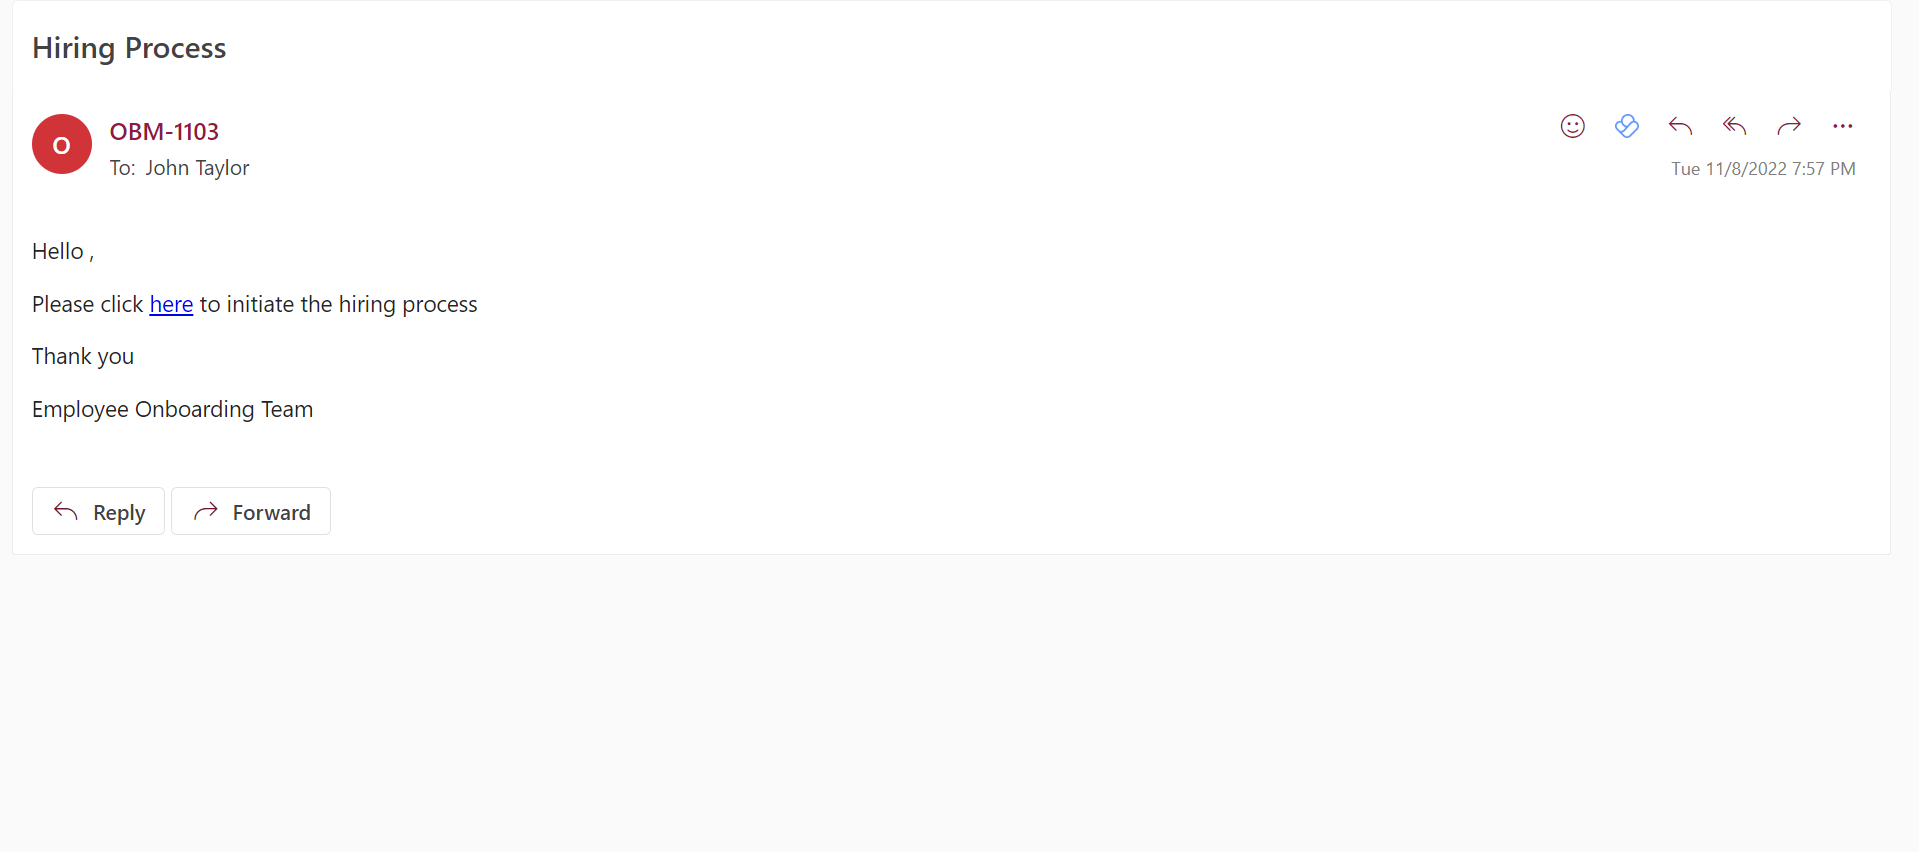
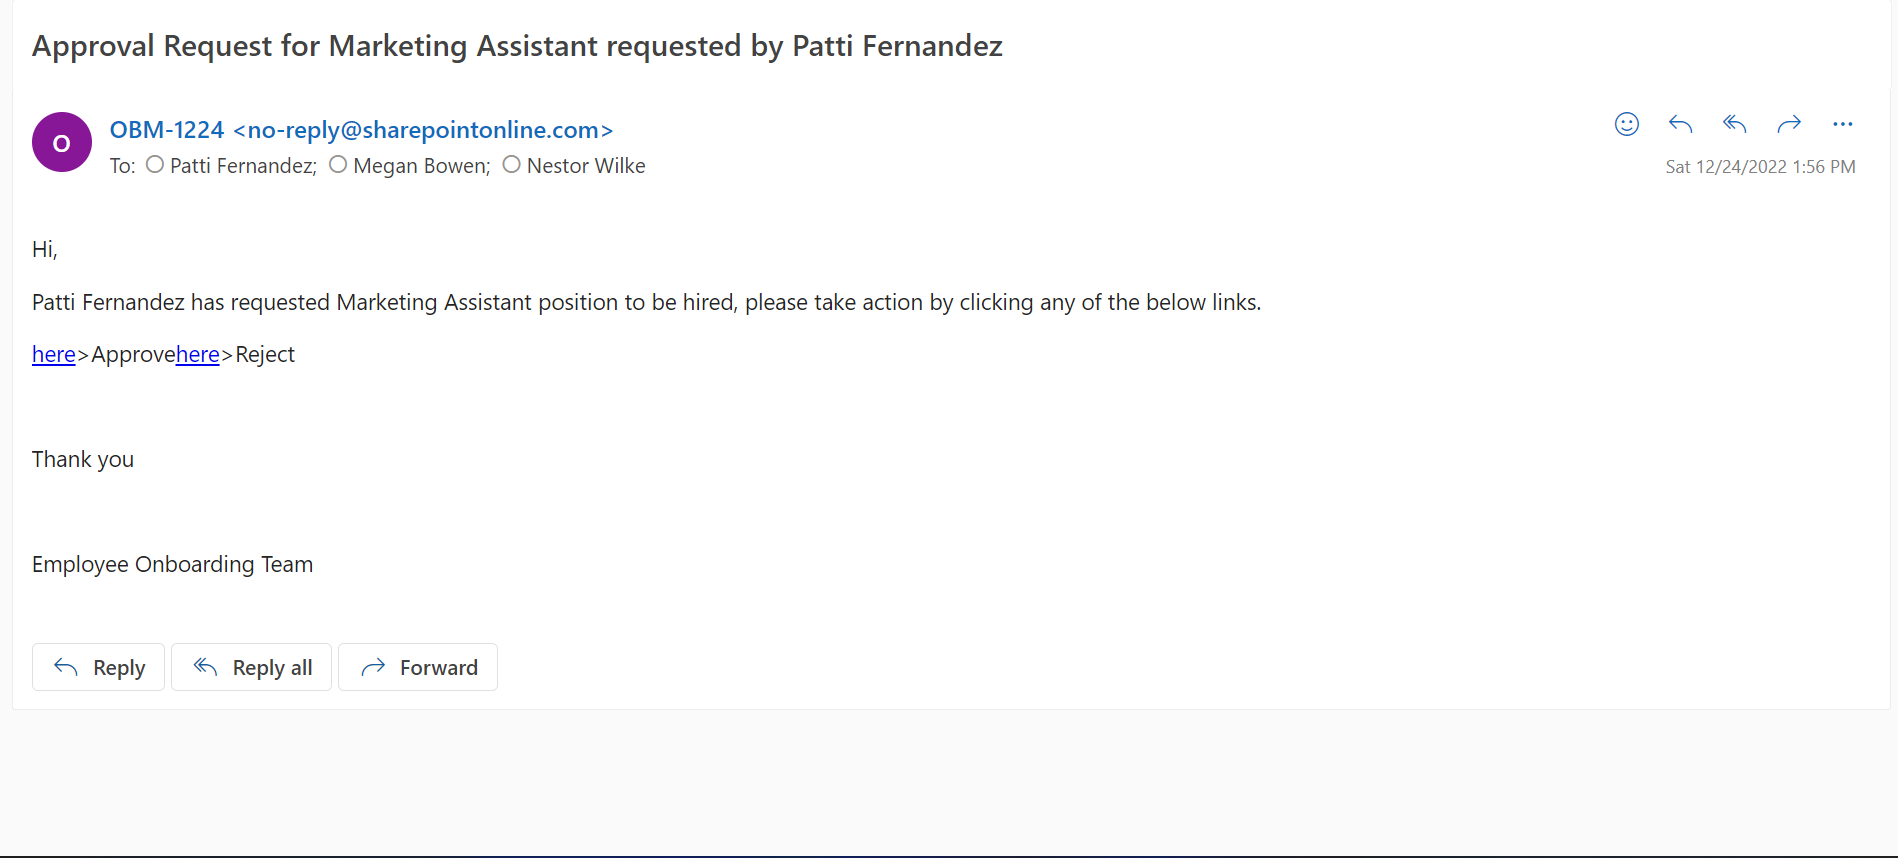
update

diff --git a/sharepoint-employee-onboarding/modern/admin/process/index.html b/sharepoint-employee-onboarding/modern/admin/process/index.html
@@ -350,21 +350,51 @@
                 Essentially, it’s a subsection of the overarching onboarding process.
                 <br><br>
                 <div><img src="pre-boarding.png" onclick="openModal('pre-boarding.png')" alt="" width="100%"
-                  height="auto"></div>
-              <br>
+                    height="auto"></div>
+                <br>
                 <p>
                   First click on <b>New</b> a panel <b>Preboarding</b> will open. Here fill the required fields and
                   click on <b>Submit</b> button.
                 </p>
-                <div><img src="hiring.png" onclick="openModal('hiring.png')" alt="" width="100%"
-                  height="auto"></div>
-              <br>
+                <div><img src="hiring.png" onclick="openModal('hiring.png')" alt="" width="100%" height="auto"></div>
+                <br>
                 <p>
-                  A mail will be send to <b>Hiring Manager</b> and manager can initiate the hiring process with the help
-                  of link given in the mail.
+                  A mail will be send to HR Head, Admin, HR Executive. <b>HR Head</b> can approve and reject the
+                  Approval Request.To approve the request, click the link provided in the email.
                 </p>
+
                 <div><img src="hiring_mail.png" onclick="openModal('hiring_mail.png')" alt="" width="100%"
+                    height="auto"></div><br>
+                <p>
+                  A mail will be sent to the hiring manager after the HR Head has approved the request.The recruiting
+                  procedure can be started by the hiring manager by following the link provided below in the email.
+                </p>
+                <div><img src="hiring_manager.png" onclick="openModal('hiring_manager.png')" alt="" width="100%"
                     height="auto"></div>
+                <p>
+                  The hiring manager will complete these fields and submit the information.
+                </p>
+                <div><img src="edit_pre_board.png" onclick="openModal('edit_pre_board.png')" alt="" width="100%"
+                    height="auto"></div><br>
+                <p> An email with information on the resources and services needed for the pre-onboarding process will
+                  be delivered to the IT Team. Click on the link given in the mail.</p>
+                <div><img src="hiring_details.png" onclick="openModal('hiring_details.png')" alt="" width="100%"
+                    height="auto"></div><br>
+                <p>Now complete the IT Taks template with the necessary data, then click the submit button.The editing
+                  preboarding panel of the hiring manager will display these specifics.</p>
+                <div><img src="IT_tasks.png" onclick="openModal('IT_tasks.png')" alt="" width="100%" height="auto">
+                </div><br>
+
+                <p>The <b>Pre-Onboarding Info</b> will be filled out by the recruiting manager. Additionally, you may
+                  assign the work using the <b>Task Template</b>and click on the submit button.</p>
+                <div><img src="pre_board_info.png" onclick="openModal('pre_board_info.png')" alt="" width="100%"
+                    height="auto"></div><br>
+                <p>The edit pre-boarding panel of the <b>IT Team</b> will display the tasks allocated to that team.</p>
+                <div><img src="It_tasks_assigned.png" onclick="openModal('It_tasks_assigned.png')" alt="" width="100%"
+                    height="auto"></div><br>
+                    <p>The tab labelled "All Task" will display all of the tasks.</p>
+                    <div><img src="all_tasks.png" onclick="openModal('all_tasks.png')" alt="" width="100%"
+                      height="auto"></div><br>
 
 
             </div>
